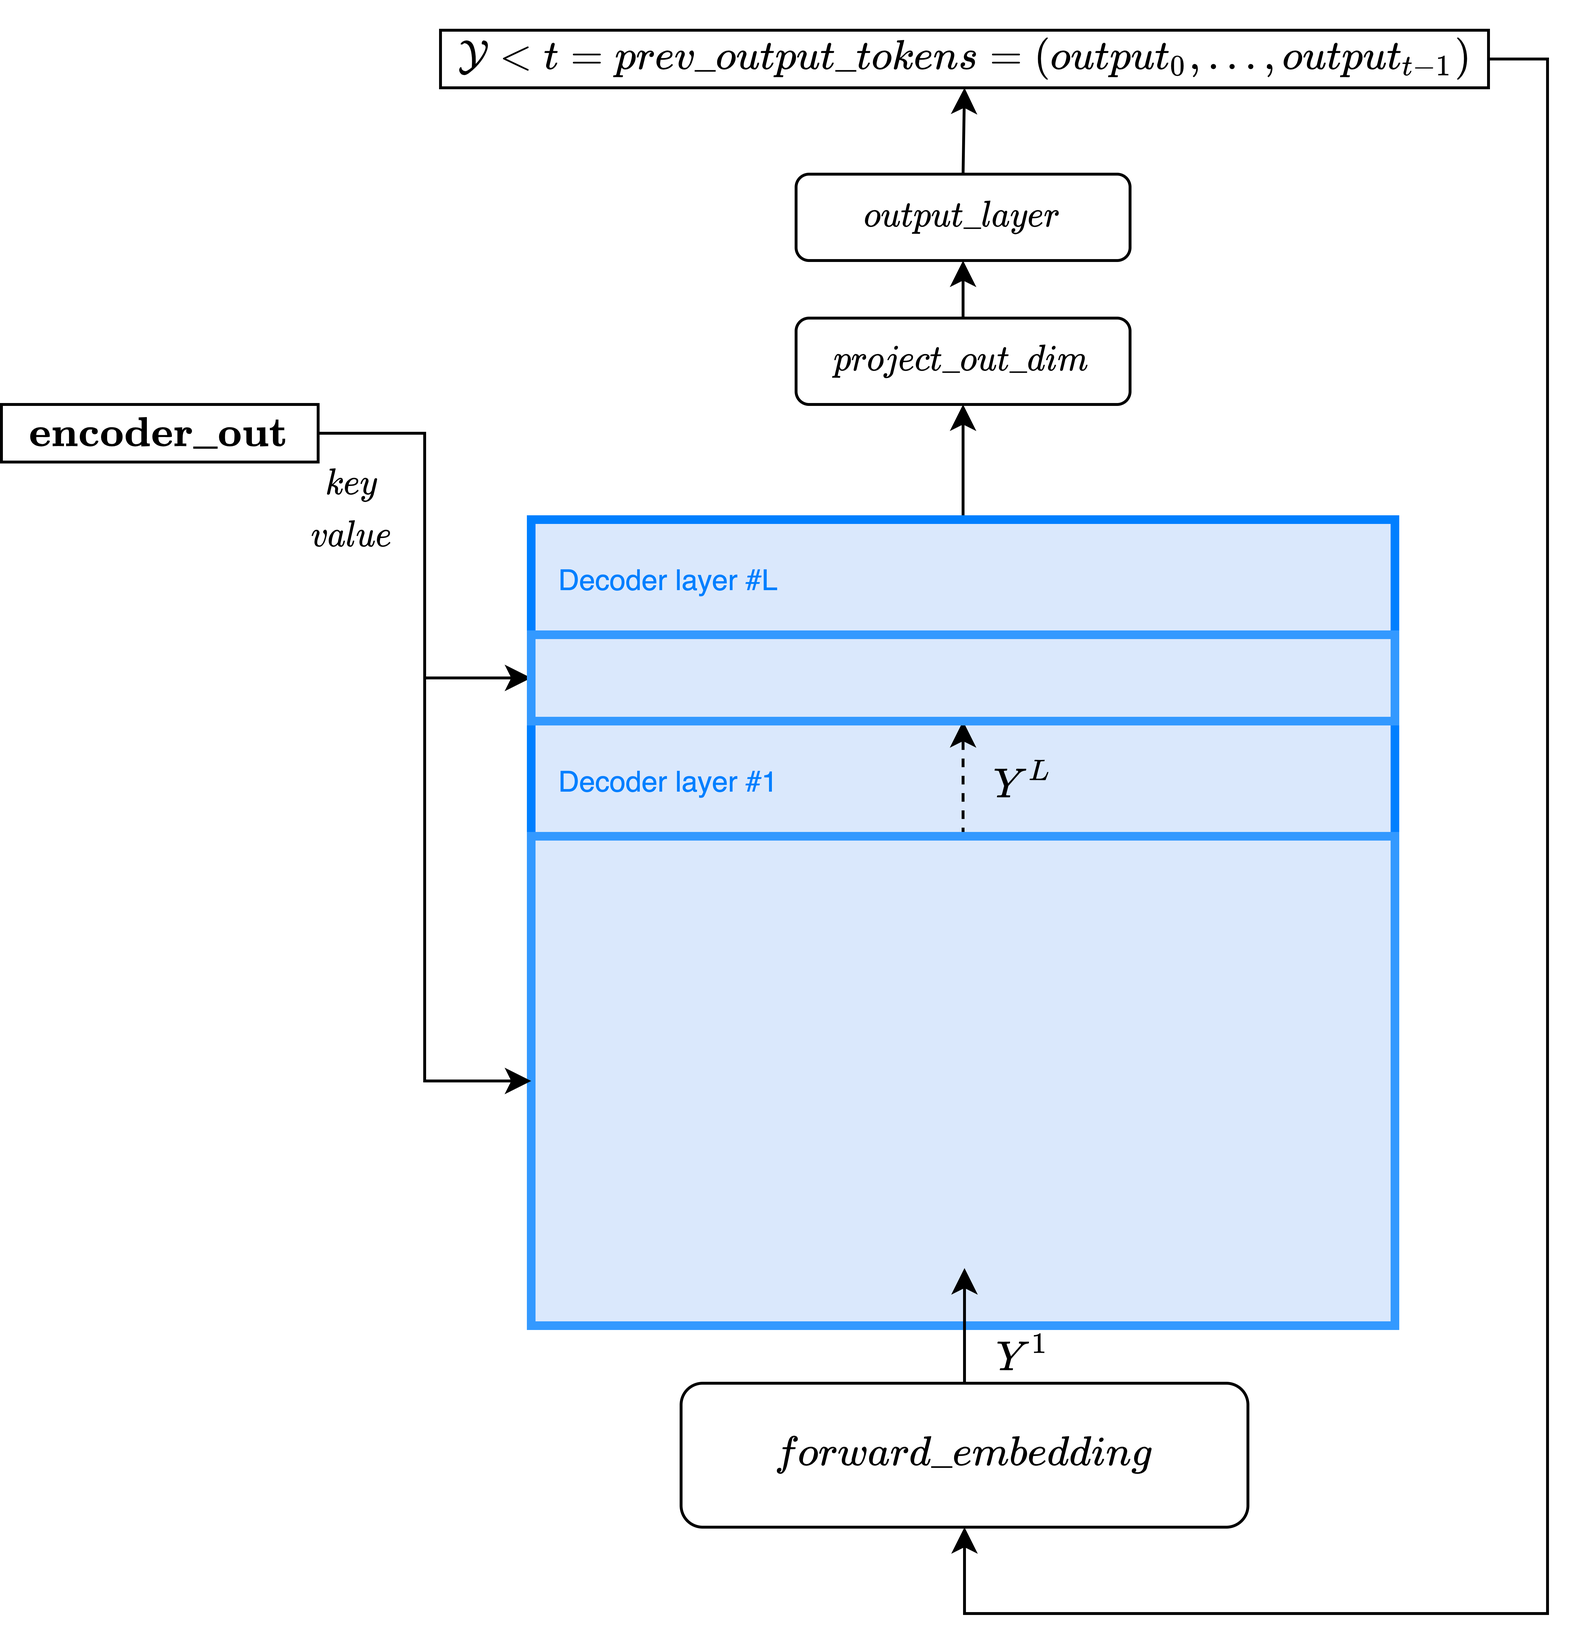
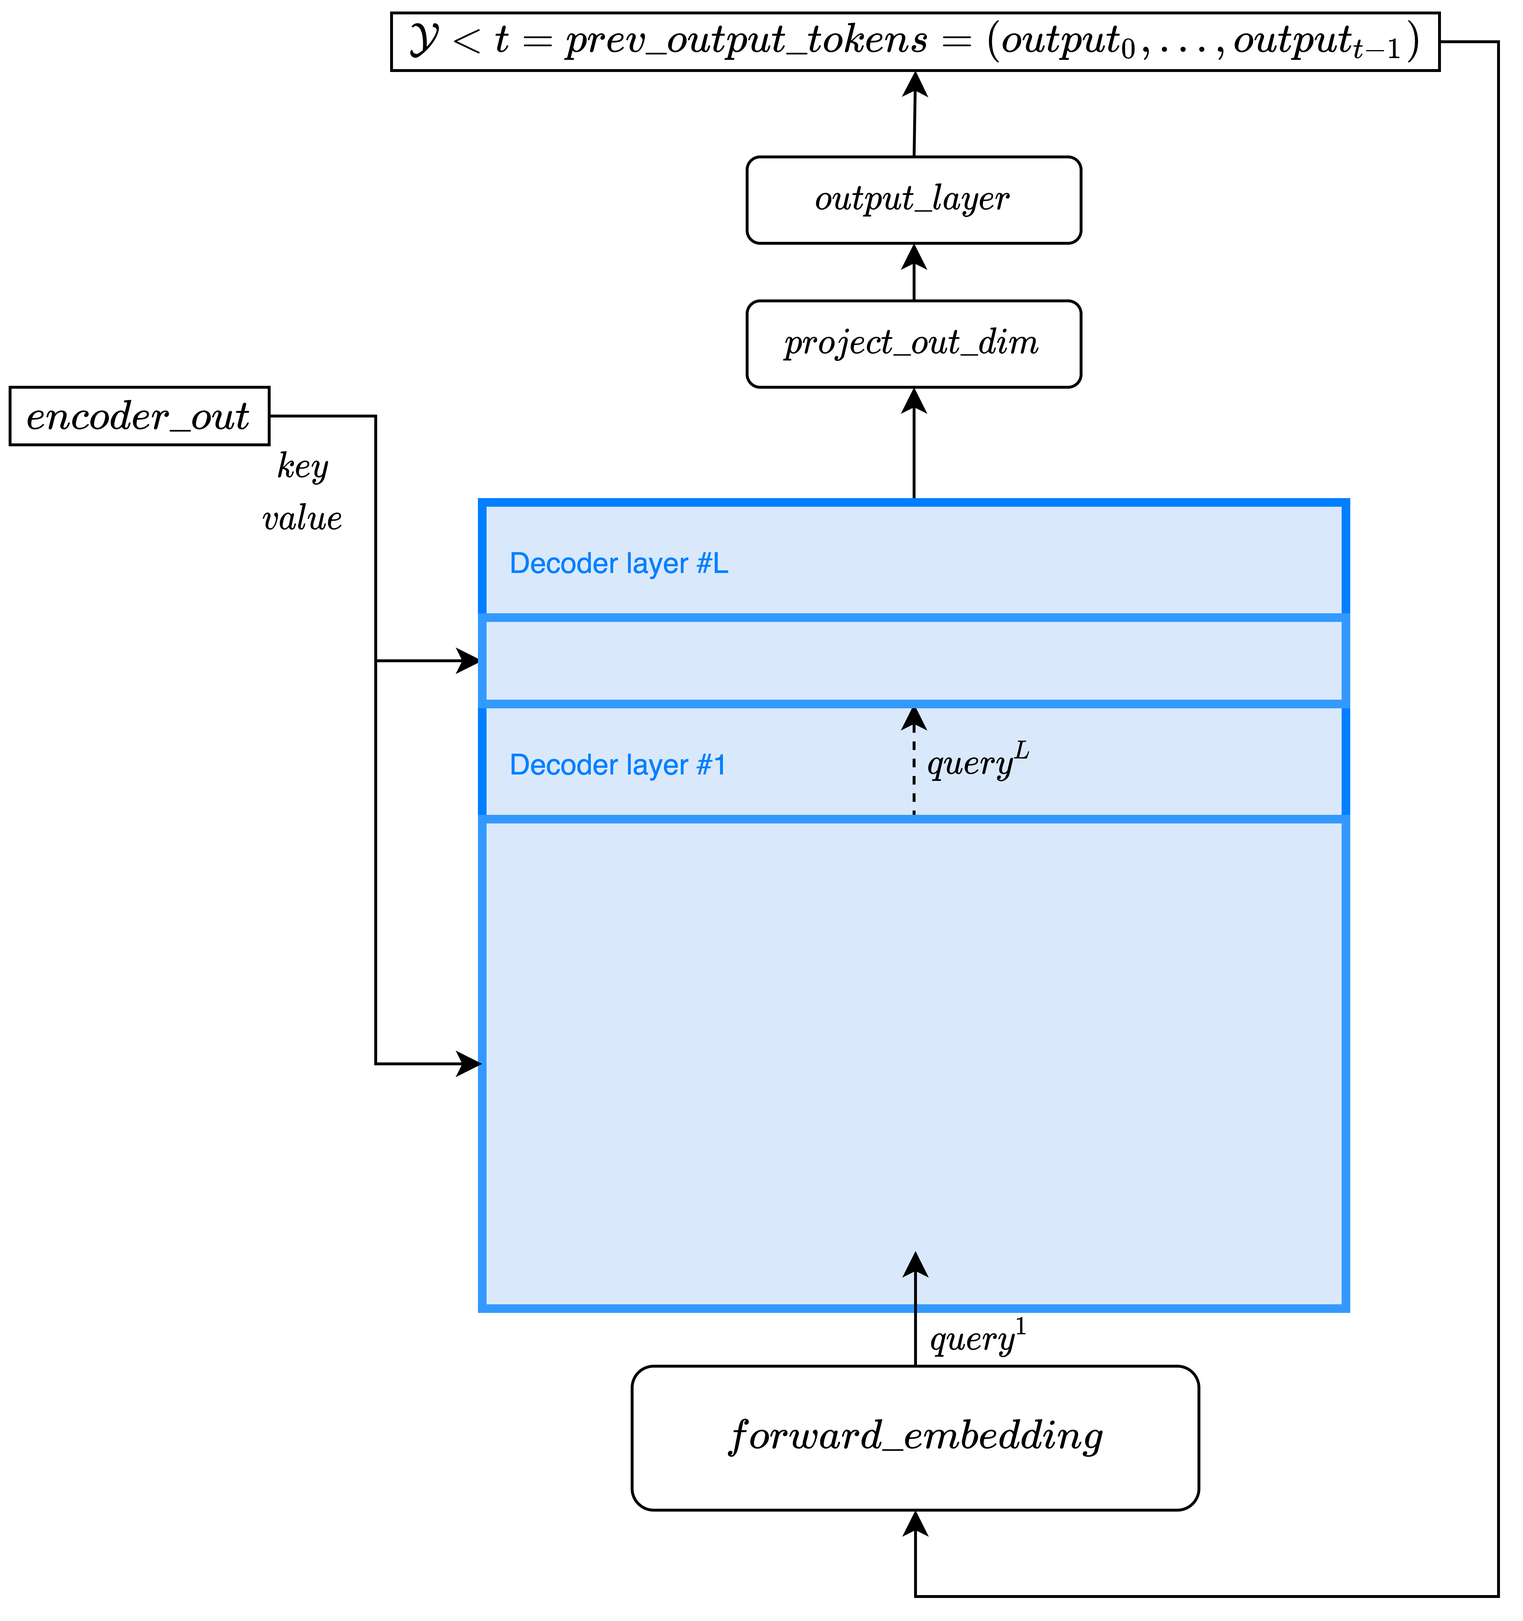
diagrams fix

diff --git a/index.html b/index.html
@@ -11805,25 +11805,8 @@ $( document ).ready(function(){
 </div>
 <div class="inner_cell">
 <div class="text_cell_render border-box-sizing rendered_html">
-<p>The Transformer architecture was presented in <a href="https://arxiv.org/abs/1706.03762">"Attention is All You Need"</a> and introduced a new architecture for many NLP tasks. In this post we present an explanation of the Transformer architecture focusing on the <a href="https://github.com/pytorch/fairseq">fairseq</a> implementation. We believe this could be useful for researchers and developers working on this framework.</p>
-<p>The blog is based on <a href="https://nlp.seas.harvard.edu/2018/04/03/attention.html">The annotated Transformer</a>, <a href="http://jalammar.github.io/illustrated-transformer/">The Illustrated Transformer</a> and <a href="https://yinghaowang.xyz/technology/2020-03-14-FairseqTransformer.html">Fairseq Transformer, BART</a> blogs.</p>
-
-</div>
-</div>
-</div>
-<div class="cell border-box-sizing text_cell rendered"><div class="prompt input_prompt">
-</div>
-<div class="inner_cell">
-<div class="text_cell_render border-box-sizing rendered_html">
-<h1 id="Background-">Background <a class="anchor" id="background" /><a class="anchor-link" href="#Background-">&#182;</a></h1>
-</div>
-</div>
-</div>
-<div class="cell border-box-sizing text_cell rendered"><div class="prompt input_prompt">
-</div>
-<div class="inner_cell">
-<div class="text_cell_render border-box-sizing rendered_html">
-<p>The Transformer was introduced as an alternative model to RNNs and ConvNets that compute representations of its inputs in a constant number of operations. This is made thanks to the self-attention module, which is a kind of attention mechanism that relies on the input sequence of a single data sample to make representations of it.</p>
+<p>The Transformer architecture was presented in <a href="https://arxiv.org/abs/1706.03762">"Attention is All You Need"</a> and introduced a new architecture for many NLP tasks. In this post we present an explanation of the Transformer architecture on Neural Machine Translation focusing on the <a href="https://github.com/pytorch/fairseq">fairseq</a> implementation. We believe this could be useful for researchers and developers starting out on this framework.</p>
+<p>The blog is inspired by <a href="https://nlp.seas.harvard.edu/2018/04/03/attention.html">The annotated Transformer</a>, <a href="http://jalammar.github.io/illustrated-transformer/">The Illustrated Transformer</a> and <a href="https://yinghaowang.xyz/technology/2020-03-14-FairseqTransformer.html">Fairseq Transformer, BART</a> blogs.</p>
 
 </div>
 </div>
@@ -11840,7 +11823,7 @@ $( document ).ready(function(){
 </div>
 <div class="inner_cell">
 <div class="text_cell_render border-box-sizing rendered_html">
-<p>The Transformer is based on a stack of encoders and another stack of decoders. The encoder maps an input sequence of tokens $\mathcal{X}=src\_tokens=(token_{0},...,token_{src\_len})$ to a sequence of continuous vector representations $\mathbf{encoder\_out} = (encoder\_out_1, ..., encoder\_out_{src\_len})$. Given $\mathbf{encoder\_out}$, the decoder then generates an output sequence $\mathcal{Y} = (output_0,...,output_{T})$ of symbols one element at a time. At each step the model is auto-regressive, consuming the previously generated symbols as additional input when generating the next token.</p>
+<p>The Transformer is based on a stack of encoders and another stack of decoders. The encoder maps an input sequence of tokens $\mathcal{X}=(token_{0},...,token_{src\_len})$ to a sequence of continuous vector representations $encoder\_out = (encoder\_out_1, ..., encoder\_out_{src\_len})$. Given $encoder\_out$, the decoder then generates an output sequence $\mathcal{Y} = (output_0,...,output_{T})$ of symbols one element at a time. At each step the model is auto-regressive, consuming the previously generated symbols as additional input when generating the next token.</p>
 
 </div>
 </div>
@@ -11850,6 +11833,15 @@ $( document ).ready(function(){
 <div class="inner_cell">
 <div class="text_cell_render border-box-sizing rendered_html">
 <p><img src="The_Transformer_Blog_files/transformer_javifer.png" style="width:600px;height:600px;" align="center"/></p>
+
+</div>
+</div>
+</div>
+<div class="cell border-box-sizing text_cell rendered"><div class="prompt input_prompt">
+</div>
+<div class="inner_cell">
+<div class="text_cell_render border-box-sizing rendered_html">
+<p>To see the general structure of the code in fairseq implementation I recommend reading <a href="https://yinghaowang.xyz/technology/2020-03-14-FairseqTransformer.html">Fairseq Transformer, BART</a>.</p>
 
 </div>
 </div>
@@ -11919,7 +11911,7 @@ $( document ).ready(function(){
 <div class="inner_cell">
 <div class="text_cell_render border-box-sizing rendered_html">
 <h2 id="Encoder">Encoder<a class="anchor-link" href="#Encoder">&#182;</a></h2><p>The encoder (<code class="language-plaintext highlighter-rouge">TransformerEncoder</code>) is composed of a stack of $N=encoder\_layers$ identical layers.</p>
-<p>The encoder recieves a list of tokens $\mathcal{X}=$<code class="language-plaintext highlighter-rouge">src_tokens</code>$=(token_{0},...,token_{src\_len})$ which are then converted to continuous vector representions <code class="language-plaintext highlighter-rouge">x = self.forward_embedding(src_tokens, token_embeddings)</code>, which is the sum of the (scaled) embedding lookup and the positional embedding: <code class="language-plaintext highlighter-rouge">x = self.embed_scale * self.embed_tokens(src_tokens) + self.embed_positions(src_tokens)</code>.</p>
+<p>The encoder recieves a list of tokens $\mathcal{X}=$<code class="language-plaintext highlighter-rouge">src_tokens</code>$=(token_{0},...,token_{src\_len})$ which are then converted to continuous vector representions <code class="language-plaintext highlighter-rouge">x = self.forward_embedding(src_tokens, token_embeddings)</code>, which is made of the sum of the (scaled) embedding lookup and the positional embedding: <code class="language-plaintext highlighter-rouge">x = self.embed_scale * self.embed_tokens(src_tokens) + self.embed_positions(src_tokens)</code>.</p>
 
 </div>
 </div>
@@ -12045,7 +12037,7 @@ $$</p>
 </div>
 <div class="inner_cell">
 <div class="text_cell_render border-box-sizing rendered_html">
-<p>The previous snipped of code shows a loop over the layers of the Encoder block <code class="language-plaintext highlighter-rouge">for layer in self.layers</code>. This layer is implemented in fairseq in <code class="language-plaintext highlighter-rouge">class TransformerEncoderLayer(nn.Module)</code> inside <a href="https://github.com/pytorch/fairseq/blob/master/fairseq/modules/transformer_layer.py">fairseq/modules/transformer_layer.py</a> and computes the following operations:</p>
+<p>The previous snipped of code shows a loop over the layers of the Encoder block, <code class="language-plaintext highlighter-rouge">for layer in self.layers</code>. This layer is implemented in fairseq in <code class="language-plaintext highlighter-rouge">class TransformerEncoderLayer(nn.Module)</code> inside <a href="https://github.com/pytorch/fairseq/blob/master/fairseq/modules/transformer_layer.py">fairseq/modules/transformer_layer.py</a> and computes the following operations:</p>
 
 </div>
 </div>
@@ -12204,7 +12196,7 @@ $$</p>
 </div>
 <div class="inner_cell">
 <div class="text_cell_render border-box-sizing rendered_html">
-<p>Each encoder layer input $X^L$, shown as <code class="language-plaintext highlighter-rouge">query</code>below since three copies of $query$ are passed to the self-attention module, is multiplied by three weight matrices learned during the training process: $W^{Q}, W^{K}$ and $W^{V}$, obtaining $Q$, $K$ and $V$. Each row of this output matrices represents the query, key and value vectors of each token in the sequence, represented as $q$, $k$ and $v$ in the formulas that follow.</p>
+<p>Each encoder layer input $X^L$, shown as <code class="language-plaintext highlighter-rouge">query</code> below since three identical copies are passed to the self-attention module, is multiplied by three weight matrices learned during the training process: $W^{Q}, W^{K}$ and $W^{V}$, obtaining $Q$, $K$ and $V$. Each row of this output matrices represents the query, key and value vectors of each token in the sequence, represented as $q$, $k$ and $v$ in the formulas that follow.</p>
 
 </div>
 </div>
@@ -12263,33 +12255,6 @@ $$</p>
 </div>
 </div>
 </div>
-<div class="cell border-box-sizing text_cell rendered"><div class="prompt input_prompt">
-</div>
-<div class="inner_cell">
-<div class="text_cell_render border-box-sizing rendered_html">
-<p>The division by the square root of the dimension of the key vectors $d_{k}$ (for getting more stable gradients) is done previously <code class="language-plaintext highlighter-rouge">q *= self.scaling</code> instead in fairseq.</p>
-
-</div>
-</div>
-</div>
-<div class="cell border-box-sizing text_cell rendered"><div class="prompt input_prompt">
-</div>
-<div class="inner_cell">
-<div class="text_cell_render border-box-sizing rendered_html">
-<p>Given the sentence "the nice cat walks away from us" for the token $i=\text{from}$, its corresponding attention weights $\alpha_{i}$ for every other token $j$ in the input sequence could be:</p>
-
-</div>
-</div>
-</div>
-<div class="cell border-box-sizing text_cell rendered"><div class="prompt input_prompt">
-</div>
-<div class="inner_cell">
-<div class="text_cell_render border-box-sizing rendered_html">
-<p><img src="The_Transformer_Blog_files/probs.jpg" style="width:600px;height:250px;" align="center"/></p>
-
-</div>
-</div>
-</div>
 <div class="cell border-box-sizing code_cell rendered">
 <div class="input">
 <div class="prompt input_prompt">In&nbsp;[&nbsp;]:</div>
@@ -12305,6 +12270,33 @@ $$</p>
 </div>
 </div>
 
+</div>
+<div class="cell border-box-sizing text_cell rendered"><div class="prompt input_prompt">
+</div>
+<div class="inner_cell">
+<div class="text_cell_render border-box-sizing rendered_html">
+<p>The division by the square root of the dimension of the key vectors $d_{k}$ (for getting more stable gradients) is done previously <code class="language-plaintext highlighter-rouge">q *= self.scaling</code> instead in fairseq.</p>
+
+</div>
+</div>
+</div>
+<div class="cell border-box-sizing text_cell rendered"><div class="prompt input_prompt">
+</div>
+<div class="inner_cell">
+<div class="text_cell_render border-box-sizing rendered_html">
+<p>For example, given the sentence "the nice cat walks away from us" for the token $i=\text{from}$, its corresponding attention weights $\alpha_{i}$ for every other token $j$ in the input sequence could be:</p>
+
+</div>
+</div>
+</div>
+<div class="cell border-box-sizing text_cell rendered"><div class="prompt input_prompt">
+</div>
+<div class="inner_cell">
+<div class="text_cell_render border-box-sizing rendered_html">
+<p><img src="The_Transformer_Blog_files/probs.jpg" style="width:600px;height:250px;" align="center"/></p>
+
+</div>
+</div>
 </div>
 <div class="cell border-box-sizing text_cell rendered"><div class="prompt input_prompt">
 </div>
@@ -12390,8 +12382,8 @@ $$</p>
 <div class="inner_cell">
 <div class="text_cell_render border-box-sizing rendered_html">
 <h2 id="Decoder">Decoder<a class="anchor-link" href="#Decoder">&#182;</a></h2><p>The decoder is composed of a stack of $N=decoder\_layers$ identical layers.</p>
-<p>The goal of the decoder is to generate a sequence $\mathcal{Y}$ in the target language. The <code class="language-plaintext highlighter-rouge">TransformerDecoder</code> inherits from <code class="language-plaintext highlighter-rouge">FairseqIncrementalDecoder</code>. It differs from the encoder in that it performs incremental decoding. This means that at each time step $t$ a forward pass is done through the decoder generating $output_{t}$, which is then fed as input to the next time step decoding process.</p>
-<p>The encoder output <code class="language-plaintext highlighter-rouge">encoder_out.encoder_out</code> is used by the decoder (in each layer) together with $\mathcal{Y&lt;t}=(output_{0},...,output_{t-1})$ (<code class="language-plaintext highlighter-rouge">prev_output_tokens</code>) to generate one feature vector per target token at each time step (<code class="language-plaintext highlighter-rouge">tgt_len = 1</code> in each forward pass). This feature vector is then passed through a linear layer together with a softmax activation function <code class="language-plaintext highlighter-rouge">self.output_layer(x)</code> to get a probability distribution over the target language vocabulary.</p>
+<p>The goal of the decoder is to generate a sequence $\mathcal{Y}$ in the target language. The <code class="language-plaintext highlighter-rouge">TransformerDecoder</code> inherits from <code class="language-plaintext highlighter-rouge">FairseqIncrementalDecoder</code>. It differs from the encoder in that it performs incremental decoding. This means that at each time step $t$ a forward pass is done through the decoder, generating $output_{t}$, which is then fed as input to the next time step decoding process.</p>
+<p>The encoder output <code class="language-plaintext highlighter-rouge">encoder_out.encoder_out</code> is used by the decoder (in each layer) together with $\mathcal{Y&lt;t}=(output_{0},...,output_{t-1})$ (<code class="language-plaintext highlighter-rouge">prev_output_tokens</code>) to generate one feature vector per target token at each time step (<code class="language-plaintext highlighter-rouge">tgt_len = 1</code> in each forward pass). This feature vector is then transformed by a linear layer and passed through a softmax layer <code class="language-plaintext highlighter-rouge">self.output_layer(x)</code> to get a probability distribution over the target language vocabulary.</p>
 <p>Following the beam search algorithm, top <code class="language-plaintext highlighter-rouge">beam</code> hypothesis are chosen and inserted in the batch dimension input of the decoder (<code class="language-plaintext highlighter-rouge">prev_output_tokens</code>) for the next time step.</p>
 
 </div>
@@ -12410,7 +12402,7 @@ $$</p>
 </div>
 <div class="inner_cell">
 <div class="text_cell_render border-box-sizing rendered_html">
-<p>We consider $Y^L$ as the $L$ decoder layer input sequence. $Y^{1}$ refers then to the matrix representation of the input sequence tokens of the first layer, after computing <code class="language-plaintext highlighter-rouge">self.forward_embedding</code> on <code class="language-plaintext highlighter-rouge">prev_output_tokens</code>. Note that here <code class="language-plaintext highlighter-rouge">self.forward_embedding</code> is not defined, but we refer to <code class="language-plaintext highlighter-rouge">self.embed_tokens(prev_output_tokens)</code> and <code class="language-plaintext highlighter-rouge">self.embed_positions(prev_output_tokens)</code>.</p>
+<p>We consider $query^L$ as the $L$ decoder layer input sequence. $query^{1}$ refers then to the vector representation of the input sequence tokens of the first layer, after computing <code class="language-plaintext highlighter-rouge">self.forward_embedding</code> on <code class="language-plaintext highlighter-rouge">prev_output_tokens</code>. Note that here <code class="language-plaintext highlighter-rouge">self.forward_embedding</code> is not defined, but we refer to <code class="language-plaintext highlighter-rouge">self.embed_tokens(prev_output_tokens)</code> and <code class="language-plaintext highlighter-rouge">self.embed_positions(prev_output_tokens)</code>.</p>
 
 </div>
 </div>
@@ -12644,8 +12636,17 @@ $$</p>
 </div>
 <div class="inner_cell">
 <div class="text_cell_render border-box-sizing rendered_html">
-<p>During incremental decoding, <code class="language-plaintext highlighter-rouge">prev_output_tokens</code> $(output_{0},...,output_{t-2})$ enter the self-attention module as key and value vectors that are stored in <code class="language-plaintext highlighter-rouge">saved_state</code>. Since there is no need to recompute $K$ snd $V$, incremental decoding caches these values. The last time step output token, $output_{t-1}$, enters as a query vector after been embedded. So, query vectors now have one element in the second dimension, that is, there is no need to use matrix $Q$ notation.
-As before, scalar values (scores) are obtained between the query vector $q_{t-1}$ and every key vector of the whole previous tokens sequence $k_{j} \forall j \in Y^L$.</p>
+<h4 id="Self-attention-in-the-decoder">Self-attention in the decoder<a class="anchor-link" href="#Self-attention-in-the-decoder">&#182;</a></h4>
+</div>
+</div>
+</div>
+<div class="cell border-box-sizing text_cell rendered"><div class="prompt input_prompt">
+</div>
+<div class="inner_cell">
+<div class="text_cell_render border-box-sizing rendered_html">
+<p>During incremental decoding, $(output_{0},...,output_{t-2})$ enter the self-attention module as <code class="language-plaintext highlighter-rouge">prev_key</code> and <code class="language-plaintext highlighter-rouge">prev_value</code> vectors that are stored in <code class="language-plaintext highlighter-rouge">saved\_state</code>. Since there is no need to recompute $K$ and $V$ every time, incremental decoding caches these values and concatenates with keys an values from <code class="language-plaintext highlighter-rouge">output_{t-1}</code>.</p>
+<p>The last time step output token, $output_{t-1}$, enters as a query after been embedded. So, queries here have one element in the second dimension, that is, there is no need to use matrix $Q$ notation.
+As before, scalar values (scores) are obtained between the query vector $q_{t-1}$ and every key vector of the whole previous tokens sequence.</p>
 
 </div>
 </div>
@@ -12654,7 +12655,24 @@ As before, scalar values (scores) are obtained between the query vector $q_{t-1}
 </div>
 <div class="inner_cell">
 <div class="text_cell_render border-box-sizing rendered_html">
-<p><img src="The_Transformer_Blog_files/augmented_decoder_javifer.png" style="width:550px;height:400px;" align="center"/></p>
+<h4 id="Encoder-Decoder-attention">Encoder-Decoder attention<a class="anchor-link" href="#Encoder-Decoder-attention">&#182;</a></h4>
+</div>
+</div>
+</div>
+<div class="cell border-box-sizing text_cell rendered"><div class="prompt input_prompt">
+</div>
+<div class="inner_cell">
+<div class="text_cell_render border-box-sizing rendered_html">
+<p>The Encoder-Decoder attention receives key and values from the encoder output <code class="language-plaintext highlighter-rouge">encoder_out.encoder_out</code> and the query from the previous module $z_{t}*$. Here, $q_{t}$ is compared against every key vector received from the encoder (and transformed by $W^K$).</p>
+
+</div>
+</div>
+</div>
+<div class="cell border-box-sizing text_cell rendered"><div class="prompt input_prompt">
+</div>
+<div class="inner_cell">
+<div class="text_cell_render border-box-sizing rendered_html">
+<p><img src="The_Transformer_Blog_files/augmented_decoder_javifer.png" style="width:700px;height:400px;" align="center"/></p>
 
 </div>
 </div>
